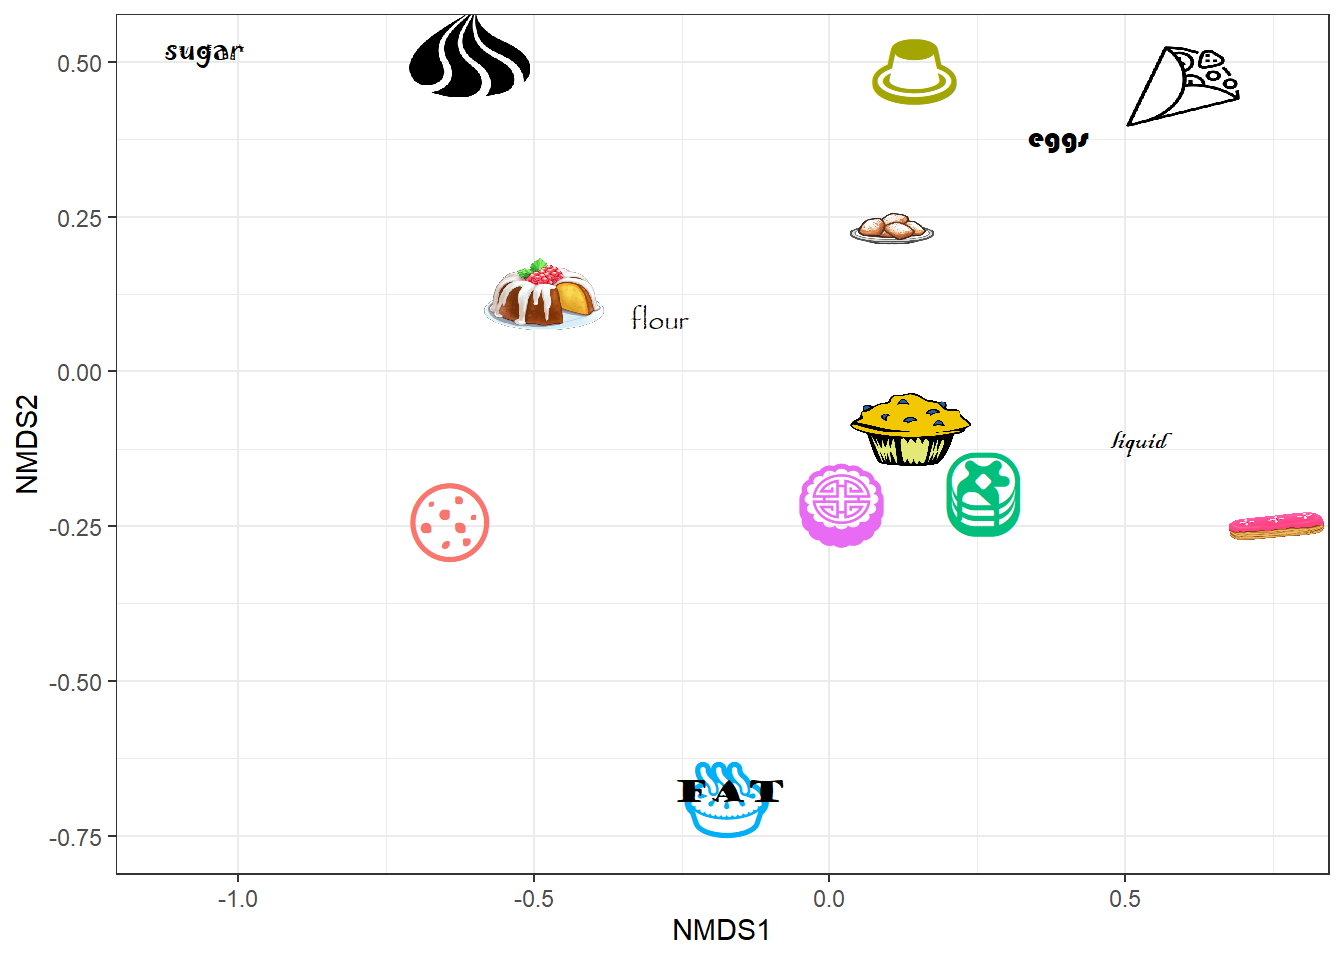
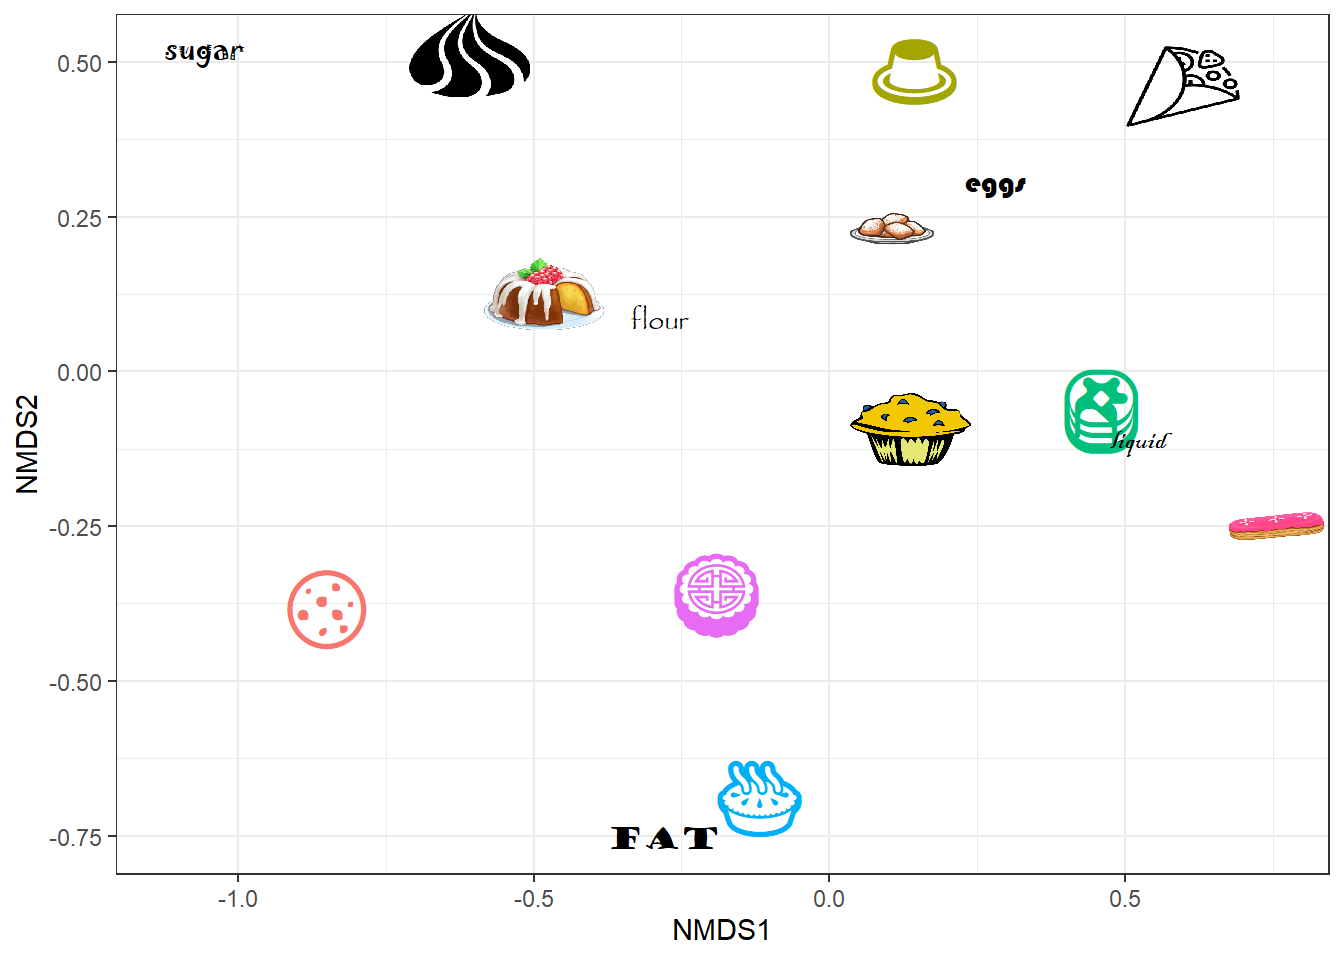
re-render

diff --git a/Code_for_multivariate_plots_demo.html b/Code_for_multivariate_plots_demo.html
@@ -400,38 +400,29 @@ library(vegan)
 # run NMDS
 desord = metaMDS(desserts[,-1])</code></pre>
 <pre><code>## Run 0 stress 0.1036346 
-## Run 1 stress 0.1318933 
-## Run 2 stress 0.1036346 
-## ... Procrustes: rmse 3.455718e-05  max resid 6.639791e-05 
-## ... Similar to previous best
-## Run 3 stress 0.1318933 
-## Run 4 stress 0.1948429 
-## Run 5 stress 0.1383341 
-## Run 6 stress 0.1318933 
+## Run 1 stress 0.1193745 
+## Run 2 stress 0.1599093 
+## Run 3 stress 0.1193745 
+## Run 4 stress 0.2185744 
+## Run 5 stress 0.1599095 
+## Run 6 stress 0.1383341 
 ## Run 7 stress 0.1318933 
-## Run 8 stress 0.1643134 
+## Run 8 stress 0.2145512 
 ## Run 9 stress 0.1193745 
-## Run 10 stress 0.1036346 
+## Run 10 stress 0.1193745 
+## Run 11 stress 0.1036346 
 ## ... New best solution
-## ... Procrustes: rmse 2.585378e-05  max resid 5.03233e-05 
+## ... Procrustes: rmse 5.308841e-05  max resid 0.0001082056 
 ## ... Similar to previous best
-## Run 11 stress 0.1383341 
-## Run 12 stress 0.1193745 
-## Run 13 stress 0.1318933 
-## Run 14 stress 0.1193745 
-## Run 15 stress 0.1036347 
-## ... Procrustes: rmse 0.0002251529  max resid 0.000456316 
-## ... Similar to previous best
-## Run 16 stress 0.1036346 
-## ... New best solution
-## ... Procrustes: rmse 2.384381e-05  max resid 4.456807e-05 
-## ... Similar to previous best
-## Run 17 stress 0.1036346 
-## ... Procrustes: rmse 2.244196e-05  max resid 4.537804e-05 
-## ... Similar to previous best
-## Run 18 stress 0.1383341 
+## Run 12 stress 0.1318934 
+## Run 13 stress 0.1193745 
+## Run 14 stress 0.1560745 
+## Run 15 stress 0.1193745 
+## Run 16 stress 0.1318933 
+## Run 17 stress 0.1318933 
+## Run 18 stress 0.1193745 
 ## Run 19 stress 0.1193745 
-## Run 20 stress 0.1560746 
+## Run 20 stress 0.1560745 
 ## *** Solution reached</code></pre>
 <p>Unfortunately, the basic vegan plotting function doesn’t make a particularly compelling plot:</p>
 <pre class="r"><code>plot(desord)</code></pre>
@@ -443,23 +434,23 @@ dessert_data = data.frame(NMDS1 = desord$points[,1], NMDS2= desord$points[,2],
 
 head(dessert_data)</code></pre>
 <pre><code>##         NMDS1      NMDS2      dessert
-## 1 -0.48445785  0.1261839   pound_cake
-## 2  0.36062034 -0.1195250     pancakes
-## 3 -0.60828528  0.5137362     meringue
-## 4  0.75159677 -0.2512641 choux_pastry
-## 5 -0.06597907 -0.7494481          pie
-## 6  0.10418106  0.2649430      fritter</code></pre>
+## 1 -0.48445817  0.1261681   pound_cake
+## 2  0.36061015 -0.1195192     pancakes
+## 3 -0.60828901  0.5137337     meringue
+## 4  0.75160095 -0.2512626 choux_pastry
+## 5 -0.06594436 -0.7494379          pie
+## 6  0.10414654  0.2649741      fritter</code></pre>
 <pre class="r"><code># create dataframe of ingredient information using the &#39;species&#39; scores 
 ingredient_data = as.data.frame(scores(desord, &quot;species&quot;))
 ingredient_data$ingredient = row.names(ingredient_data)
 
 head(ingredient_data)</code></pre>
 <pre><code>##             NMDS1      NMDS2 ingredient
-## flour  -0.2288884  0.1283640      flour
-## sugar  -1.1138420  0.4866583      sugar
-## eggs    0.3352246  0.3436221       eggs
-## fat    -0.2236820 -0.7130215        fat
-## liquid  0.4657376 -0.1422987     liquid</code></pre>
+## flour  -0.2288987  0.1283651      flour
+## sugar  -1.1138371  0.4866317      sugar
+## eggs    0.3352204  0.3436271       eggs
+## fat    -0.2236596 -0.7130368        fat
+## liquid  0.4657303 -0.1422847     liquid</code></pre>
 <p>Now we can make a plot:</p>
 <pre class="r"><code># First, let&#39;s visualize the desserts in 2-D space
 ggplot(dessert_data, aes(x=NMDS1, y=NMDS2))+
@@ -519,12 +510,12 @@ dessert_data = dessert_data %&gt;%
 
 head(dessert_data)</code></pre>
 <pre><code>##         NMDS1      NMDS2      dessert dessert_id2            emoji
-## 1 -0.48445785  0.1261839   pound_cake    doughnut     &lt;U+0001F369&gt;
-## 2  0.36062034 -0.1195250     pancakes    pancakes     &lt;U+0001F95E&gt;
-## 3 -0.60828528  0.5137362     meringue       cloud &lt;U+2601&gt;&lt;U+FE0F&gt;
-## 4  0.75159677 -0.2512641 choux_pastry       bread     &lt;U+0001F35E&gt;
-## 5 -0.06597907 -0.7494481          pie         pie     &lt;U+0001F967&gt;
-## 6  0.10418106  0.2649430      fritter      hotdog     &lt;U+0001F32D&gt;</code></pre>
+## 1 -0.48445817  0.1261681   pound_cake    doughnut     &lt;U+0001F369&gt;
+## 2  0.36061015 -0.1195192     pancakes    pancakes     &lt;U+0001F95E&gt;
+## 3 -0.60828901  0.5137337     meringue       cloud &lt;U+2601&gt;&lt;U+FE0F&gt;
+## 4  0.75160095 -0.2512626 choux_pastry       bread     &lt;U+0001F35E&gt;
+## 5 -0.06594436 -0.7494379          pie         pie     &lt;U+0001F967&gt;
+## 6  0.10414654  0.2649741      fritter      hotdog     &lt;U+0001F32D&gt;</code></pre>
 <pre class="r"><code>ggplot(dessert_data, aes(x = NMDS1, y = NMDS2))+
   geom_text(aes(label=emoji, col=emoji))+
   geom_text_repel(aes(label=dessert))+
@@ -564,11 +555,11 @@ dessert_data$picture[grep(&quot;muffin&quot;,dessert_data$dessert)] = &quot;baki
 <p>The last step that I’ll cover is adding the ingredient information to plot.</p>
 <pre class="r"><code>head(ingredient_data)</code></pre>
 <pre><code>##             NMDS1      NMDS2 ingredient
-## flour  -0.2288884  0.1283640      flour
-## sugar  -1.1138420  0.4866583      sugar
-## eggs    0.3352246  0.3436221       eggs
-## fat    -0.2236820 -0.7130215        fat
-## liquid  0.4657376 -0.1422987     liquid</code></pre>
+## flour  -0.2288987  0.1283651      flour
+## sugar  -1.1138371  0.4866317      sugar
+## eggs    0.3352204  0.3436271       eggs
+## fat    -0.2236596 -0.7130368        fat
+## liquid  0.4657303 -0.1422847     liquid</code></pre>
 <p>We can do this by simply adding another layer to the plot:</p>
 <pre class="r"><code>ggplot(dessert_data, aes(x=NMDS1, y=NMDS2))+
   geom_image(aes(image = picture),size=0.1)+

diff --git a/Code_for_Circular_plots_demo.html b/Code_for_Circular_plots_demo.html
@@ -11,7 +11,7 @@
 
 
 
-<title>Plots</title>
+<title>Time</title>
 
 <script src="site_libs/header-attrs-2.10/header-attrs.js"></script>
 <script src="site_libs/jquery-1.11.3/jquery.min.js"></script>
@@ -339,9 +339,16 @@ div.tocify {
 </li>
 <li>
   <a href="Code_for_Circular_plots_demo.html">
+    <span class="fa fa-clock"></span>
+     
+    Time
+  </a>
+</li>
+<li>
+  <a href="Code_for_multivariate_plots_demo.html">
     <span class="fa fa-chart-scatter"></span>
      
-    Plots
+    Multivariate
   </a>
 </li>
       </ul>
@@ -370,7 +377,7 @@ div.tocify {
 
 
 
-<h1 class="title toc-ignore">Plots</h1>
+<h1 class="title toc-ignore">Time</h1>
 
 </div>
 
